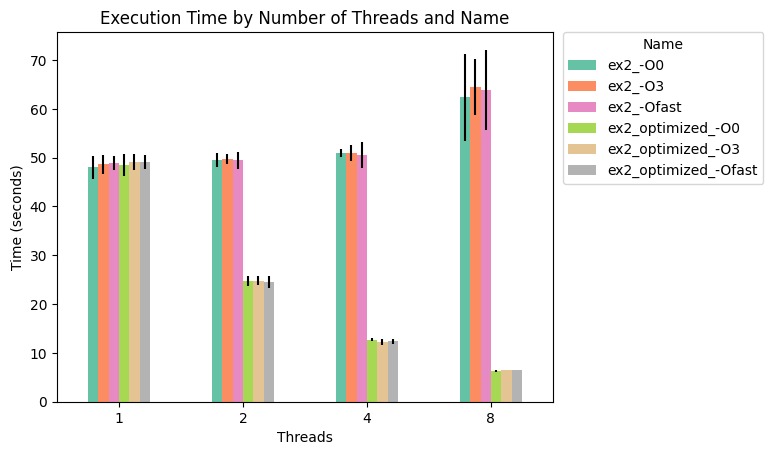
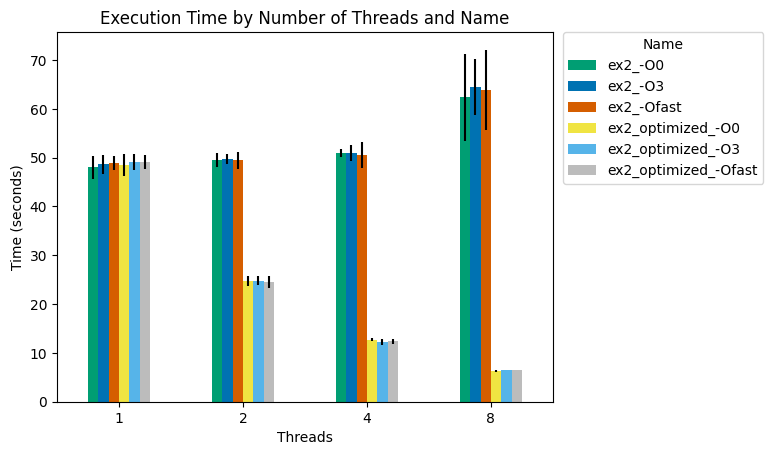
update colors

diff --git a/tools/plot.py b/tools/plot.py
@@ -2,6 +2,8 @@
 
 import pandas as pd
 import matplotlib.pyplot as plt
+from matplotlib.colors import ListedColormap
+import cmasher as cmr
 
 # Load the data from the CSV file
 df = pd.read_csv('times.csv').sort_values(by=['name'], ascending=True)
@@ -9,8 +11,12 @@ df = pd.read_csv('times.csv').sort_values(by=['name'], ascending=True)
 # Group the data by 'threads' and 'name' columns and calculate the mean and standard deviation
 grouped = df.groupby(['threads', 'name'])['time'].agg(['mean', 'std']).unstack().reset_index()
 
+# use the Safe color palette by Paul Tol
+colors = ['#009E73', '#0072B2', '#D55E00', '#CC79A7', '#F0E442', '#56B4E9', '#bcbcbc']
+cmap = ListedColormap(colors)
+
 # Create a grouped bar chart with error bars showing the standard deviation
-ax = grouped['mean'].plot(kind='bar', yerr=grouped['std'], rot=0, cmap='Set1')
+ax = grouped['mean'].plot(kind='bar', yerr=grouped['std'], rot=0, cmap=cmap)
 
 # Set the x-axis tick labels to the 'threads' column values
 ax.set_xticklabels(grouped['threads'])

diff --git a/w03/e02/plot.py b/w03/e02/plot.py
@@ -2,6 +2,8 @@
 
 import pandas as pd
 import matplotlib.pyplot as plt
+from matplotlib.colors import ListedColormap
+import cmasher as cmr
 
 # Load the data from the CSV file
 df = pd.read_csv('times.csv').sort_values(by=['name'], ascending=True)
@@ -9,8 +11,12 @@ df = pd.read_csv('times.csv').sort_values(by=['name'], ascending=True)
 # Group the data by 'threads' and 'name' columns and calculate the mean and standard deviation
 grouped = df.groupby(['threads', 'name'])['time'].agg(['mean', 'std']).unstack().reset_index()
 
+# use the Safe color palette by Paul Tol
+colors = ['#009E73', '#0072B2', '#D55E00', '#CC79A7', '#F0E442', '#56B4E9', '#bcbcbc']
+cmap = ListedColormap(colors)
+
 # Create a grouped bar chart with error bars showing the standard deviation
-ax = grouped['mean'].plot(kind='bar', yerr=grouped['std'], rot=0, cmap='Set1')
+ax = grouped['mean'].plot(kind='bar', yerr=grouped['std'], rot=0, cmap=cmap)
 
 # Set the x-axis tick labels to the 'threads' column values
 ax.set_xticklabels(grouped['threads'])
